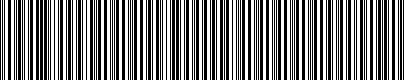
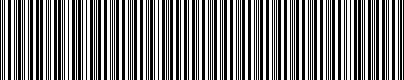
sone

Changed region(s): [[0.3564, 0.0, 0.5941, 1.0], [0.802, 0.0, 0.9505, 1.0], [0.0891, 0.0, 0.2079, 1.0]]

diff --git a/src/main.rs b/src/main.rs
@@ -1,128 +1,102 @@
+mod helpers;
+
+use helpers::*;
+
 use chrono::prelude::{TimeZone, Utc};
 use chrono::Duration;
 
-use barcoders::sym::tf::*;
-use barcoders::generators::image::*;
-use std::io::prelude::*;
-use std::io::BufWriter;
-use std::fs::File;
-use std::path::Path;
+use argparse::{ArgumentParser, Store};
 
-// TODO: agrparse, refactoring
-
+/*
+0: Id banco - 3 - 000 para cobrança interna
+1: cod moeda - 1 - 9 para real
+2: digito verificador? - 1 - 0 identifica que não existe
+3: fator vecncimento - 4
+4: valor - 10
+5: agencia do bene - 4
+6: carteira - 2
+7: nmr do nosso numero - 11
+8: conta do bene - 7
+9: zero - 1
+*/
 
 fn main() {
-    let zero_time = Duration::seconds(Utc.ymd(1997, 10, 7).and_hms(0, 0, 0).timestamp()).num_days();
-    let venci = Duration::seconds(Utc.ymd(2019, 6, 16).and_hms(0, 0, 0).timestamp()).num_days();
-
-    /*
-    0: Id banco - 3 - 000 para cobrança interna
-    1: cod moeda - 1 - 9 para real
-    2: digito verificador? - 1 - 0 identifica que não existe
-    3: fator vecncimento - 4
-    4: valor - 10
-    5: agencia do bene - 4
-    6: carteira - 2
-    7: nmr do nosso numero - 11
-    8: conta do bene - 7
-    9: zero - 1
-    */
-
-    let mut codigo: Vec<String> = Vec::new();
+    // Inicializa valores padrões
+    let mut codigo: String = String::new();
 
     let id = "237".to_string();
     let moeda = "9".to_string();
-    let fator_venci = (venci - zero_time).to_string();
-    let valor = fill_size("520", 10);
-    let agencia = fill_size("1229", 4);
-    let carteira = "25".to_string();
-    let nosso_numero = fill_size("", 11);
-    let conta = "1229469".to_string();
     let zero = "0".to_string();
 
-    codigo.push(id.clone());
-    codigo.push(moeda.clone());
-    codigo.push(fator_venci.clone());
-    codigo.push(valor.clone());
-    codigo.push(agencia.clone());
-    codigo.push(carteira.clone());
-    codigo.push(nosso_numero.clone());
-    codigo.push(conta.clone());
-    codigo.push(zero.clone());
+    let zero_time = Duration::seconds(Utc.ymd(1997, 10, 7).and_hms(0, 0, 0).timestamp()).num_days();
+    let mut venci = String::new();
 
-    let mut fl: String = String::new();
-    for s in codigo {
-        fl.push_str(&s);
+    let mut carteira = String::new();
+    let mut conta = String::new();
+    let mut valor = String::new();
+    let mut agencia = String::new();
+    let mut nosso_numero = String::new();
+
+    // Recupera argumentos e valores da linha de comando
+    {
+        let mut ap = ArgumentParser::new();
+        ap.set_description("Criador de boletos do Banco Bradesco");
+        ap.refer(&mut carteira)
+            .add_option(&["-r"], Store, "Carteira (2 dígitos)");
+        ap.refer(&mut conta)
+            .add_option(&["-c"], Store, "Conta (7 dígitos)");
+        ap.refer(&mut valor)
+            .add_option(&["-v"], Store, "Valor (10 dígitos)");
+        ap.refer(&mut agencia)
+            .add_option(&["-a"], Store, "Agência (4 dígitos)");
+        ap.refer(&mut nosso_numero)
+            .add_option(&["-n"], Store, "Nosso Numero (11 dígitos, opicional)");
+        ap.refer(&mut venci)
+            .add_option(&["-d"], Store, "Data de vecncimento (Formato: 13/10/2019)");
+
+        ap.parse_args_or_exit();
     }
 
-    let digito_verificador = gen_ver_digit(&fl);
-    let mut codigo: Vec<String> = Vec::new();
+    // Analisa dados e os organiza no formato correto
+    let venci = parse_date(&venci);
 
-    codigo.push(id.clone());
-    codigo.push(moeda.clone());
-    codigo.push(digito_verificador.clone());
-    codigo.push(fator_venci.clone());
-    codigo.push(valor.clone());
-    codigo.push(agencia.clone());
-    codigo.push(carteira.clone());
-    codigo.push(nosso_numero.clone());
-    codigo.push(conta.clone());
-    codigo.push(zero.clone());
+    valor = fill_size(&valor, 10).unwrap();
+    agencia = fill_size(&agencia, 4).unwrap();
+    nosso_numero = fill_size(&nosso_numero, 11).unwrap();
+    conta = fill_size(&conta, 7).unwrap();
+    carteira = fill_size(&carteira, 2).unwrap();
 
-    let mut fl: String = String::new();
-    for s in codigo {
-        fl.push_str(&s);
-    }
+    let fator_venci = (venci - zero_time).to_string();
 
-    println!("{}", fl);
+    // Cria codigo preliminar e gera o digito verificador
+    codigo.push_str(&id.clone());
+    codigo.push_str(&moeda.clone());
+    codigo.push_str(&fator_venci.clone());
+    codigo.push_str(&valor.clone());
+    codigo.push_str(&agencia.clone());
+    codigo.push_str(&carteira.clone());
+    codigo.push_str(&nosso_numero.clone());
+    codigo.push_str(&conta.clone());
+    codigo.push_str(&zero.clone());
 
-    gen_barcode(&fl);
+    let digito_verificador = gen_ver_digit(&codigo);
 
-}
+    // Cria codigo final e gera o código de barras
+    let mut codigo = String::new();
 
-fn gen_ver_digit(c: &str) -> String {
-    let mut mul = 2;
-    let mut result: i32 = 0;
+    codigo.push_str(&id.clone());
+    codigo.push_str(&moeda.clone());
+    codigo.push_str(&digito_verificador.clone());
+    codigo.push_str(&fator_venci.clone());
+    codigo.push_str(&valor.clone());
+    codigo.push_str(&agencia.clone());
+    codigo.push_str(&carteira.clone());
+    codigo.push_str(&nosso_numero.clone());
+    codigo.push_str(&conta.clone());
+    codigo.push_str(&zero.clone());
 
-    for u in c.chars().rev() {
-        let x: i8 = u.to_string().parse().unwrap();
+    println!("{}", codigo);
 
-        if mul > 9 {
-            mul = 2;
-        }
+    gen_barcode(&codigo);
 
-        result += x as i32* mul as i32;
-        mul += 1;
-    }
-
-    let resto = result % 11;
-
-    if resto == 0 || resto == 1 || resto > 9 {
-        return "1".to_string()
-    } else {
-        return resto.to_string()
-    }
-
-}
-
-fn gen_barcode(code: &str) {
-    let bc = TF::interleaved(code).unwrap();
-    let img = Image::png(80);
-    let encoded = bc.encode();
-
-    let bytes = img.generate(&encoded[..]).unwrap();
-
-    let file = File::create(&Path::new("codigo_de_barras.png")).unwrap();
-    let mut writer = BufWriter::new(file);
-    writer.write(&bytes[..]).unwrap();
-}
-
-fn fill_size(s: &str, i: usize) -> String {
-    let mut f: String = s.chars().rev().collect();
-
-    for _ in 0..(i - s.len()) {
-        f.push('0')
-    }
-
-    f.chars().rev().collect()
 }

diff --git a/src/helpers.rs b/src/helpers.rs
@@ -1,0 +1,79 @@
+use barcoders::sym::tf::*;
+use barcoders::generators::image::*;
+use std::io::prelude::*;
+use std::io::BufWriter;
+use std::fs::File;
+use std::path::Path;
+
+use chrono::prelude::{TimeZone, Utc};
+use chrono::Duration;
+
+// Formatação de datas
+pub fn parse_date(s: &str) -> i64 {
+    let mut s = s.to_string();
+    let mut v = Vec::<i32>::new();
+
+    let i = s.find('/').unwrap();
+    v.push(s.get(0..i).unwrap().parse().unwrap());
+    s = s.get(i+1..).unwrap().to_string();
+
+    let u = s.find('/').unwrap();
+
+    v.push(s.get(..u).unwrap().parse().unwrap());
+    s = s.get(u+1..).unwrap().to_string();
+
+    v.push(s.parse().unwrap());
+
+    Duration::seconds(Utc.ymd(v[2], v[1] as u32, v[0] as u32).and_hms(0, 0, 0).timestamp()).num_days()
+}
+
+pub fn gen_ver_digit(c: &str) -> String {
+    let mut mul = 2;
+    let mut result: i32 = 0;
+
+    for u in c.chars().rev() {
+        let x: i8 = u.to_string().parse().unwrap();
+
+        if mul > 9 {
+            mul = 2;
+        }
+
+        result += x as i32 * mul as i32;
+        mul += 1;
+    }
+
+    let resto = 11 - (result % 11);
+
+    if resto == 0 || resto == 1 || resto > 9 {
+        return "1".to_string()
+    } else {
+        return resto.to_string()
+    }
+
+}
+
+pub fn gen_barcode(code: &str) {
+    let bc = TF::interleaved(code).unwrap();
+    let img = Image::png(80);
+    let encoded = bc.encode();
+
+    let bytes = img.generate(&encoded[..]).unwrap();
+
+    let file = File::create(&Path::new("codigo_de_barras.png")).unwrap();
+    let mut writer = BufWriter::new(file);
+    writer.write(&bytes[..]).unwrap();
+}
+
+pub fn fill_size(s: &str, i: usize) -> Result<String, ()> {
+    if s.len() > i {
+        return Err(())
+    }
+
+    let mut f: String = s.chars().rev().collect();
+
+    for _ in 0..(i - s.len()) {
+        f.push('0')
+    }
+
+    Ok(f.chars().rev().collect())
+}

diff --git a/README.md b/README.md
@@ -1,0 +1,19 @@
+# Criador de Boletos do Bradesco
+
+#### Alunos: Rodrigo, Gustavo
+
+```
+-h,--help             Show this help message and exit
+-r                    Carteira (2 dígitos)
+-c                    Conta (7 dígitos)
+-v                    Valor (10 dígitos)
+-a                    Agência (4 dígitos)
+-n                    Nosso Numero (11 dígitos, opicional)
+-d                    Data de vecncimento (Formato: 13/10/2019)
+```
+
+##### Exemplo de uso
+
+```
+./boleto -r 10 -c 3218 -v 200 -a 4521 -d 13/12/2019
+```
